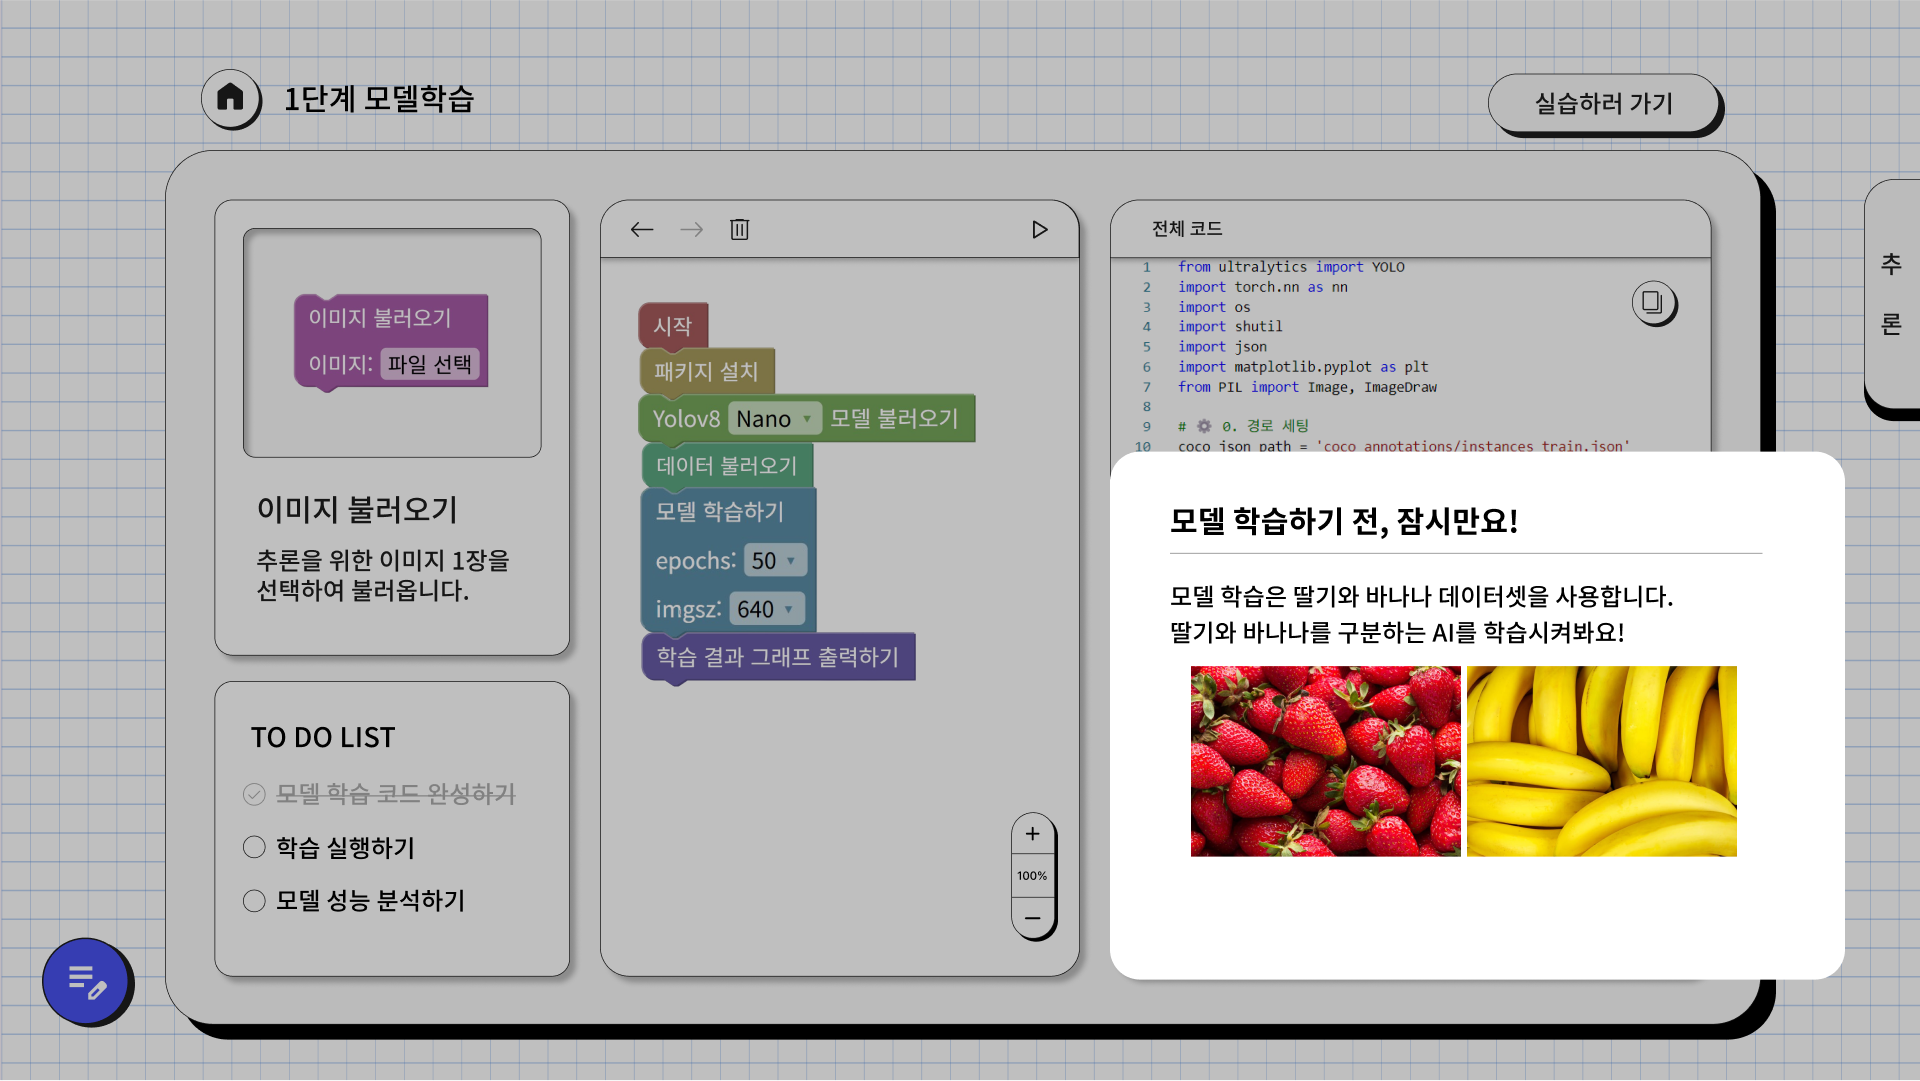
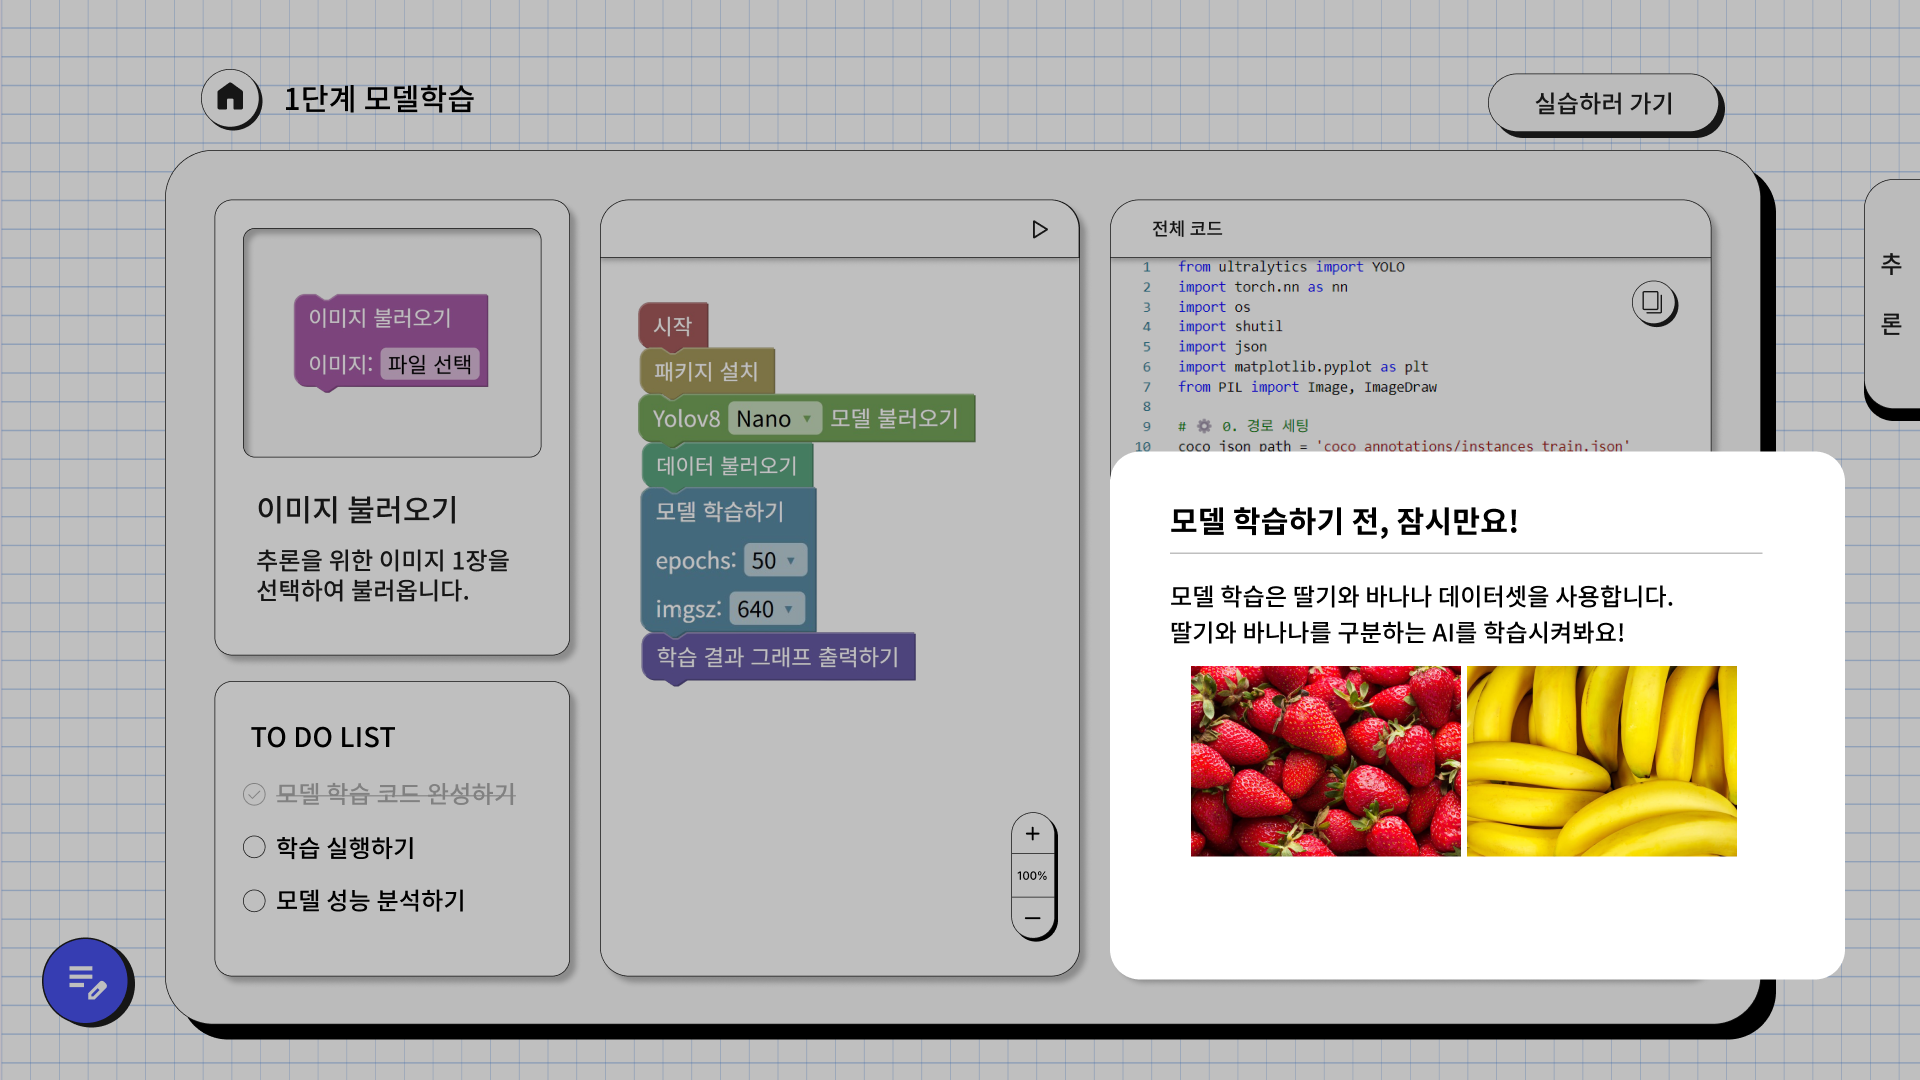
fix: 튜토리얼 가이드에 이전, 다음, 쓰레기통 사리진거 반영
- 이미지속 이전, 다음, 쓰레기통 버튼 없앰
- 가이드 설명 속 이전, 다음, 쓰레기통 설명 지움
- 3번 다음, 이전 버튼 위치 조정

diff --git a/app/SAI/SAI/SAI.App/Views/Pages/UcBlockGuide.cs b/app/SAI/SAI/SAI.App/Views/Pages/UcBlockGuide.cs
@@ -28,7 +28,7 @@ namespace SAI.SAI.App.Views.Pages
         {
             new Point(1763, 890), // 1번 next 버튼 위치
             new Point(1101, 423), // 2번 
-            new Point(1649, 677), // 3번 
+            new Point(1649, 518), // 3번 
             new Point(998, 518), // 4번 
             new Point(1124, 482), // 5번 
             new Point(1073, 899), // 6번 
@@ -39,7 +39,7 @@ namespace SAI.SAI.App.Views.Pages
         {
             new Point(1694, 890), // 1번 pre 버튼 위치
             new Point(1032, 423), // 2번
-            new Point(1580, 677), // 3번 
+            new Point(1580, 518), // 3번 
             new Point(929, 518), // 4번
             new Point(1055, 482), // 5번 
             new Point(1004, 899), // 6번 
